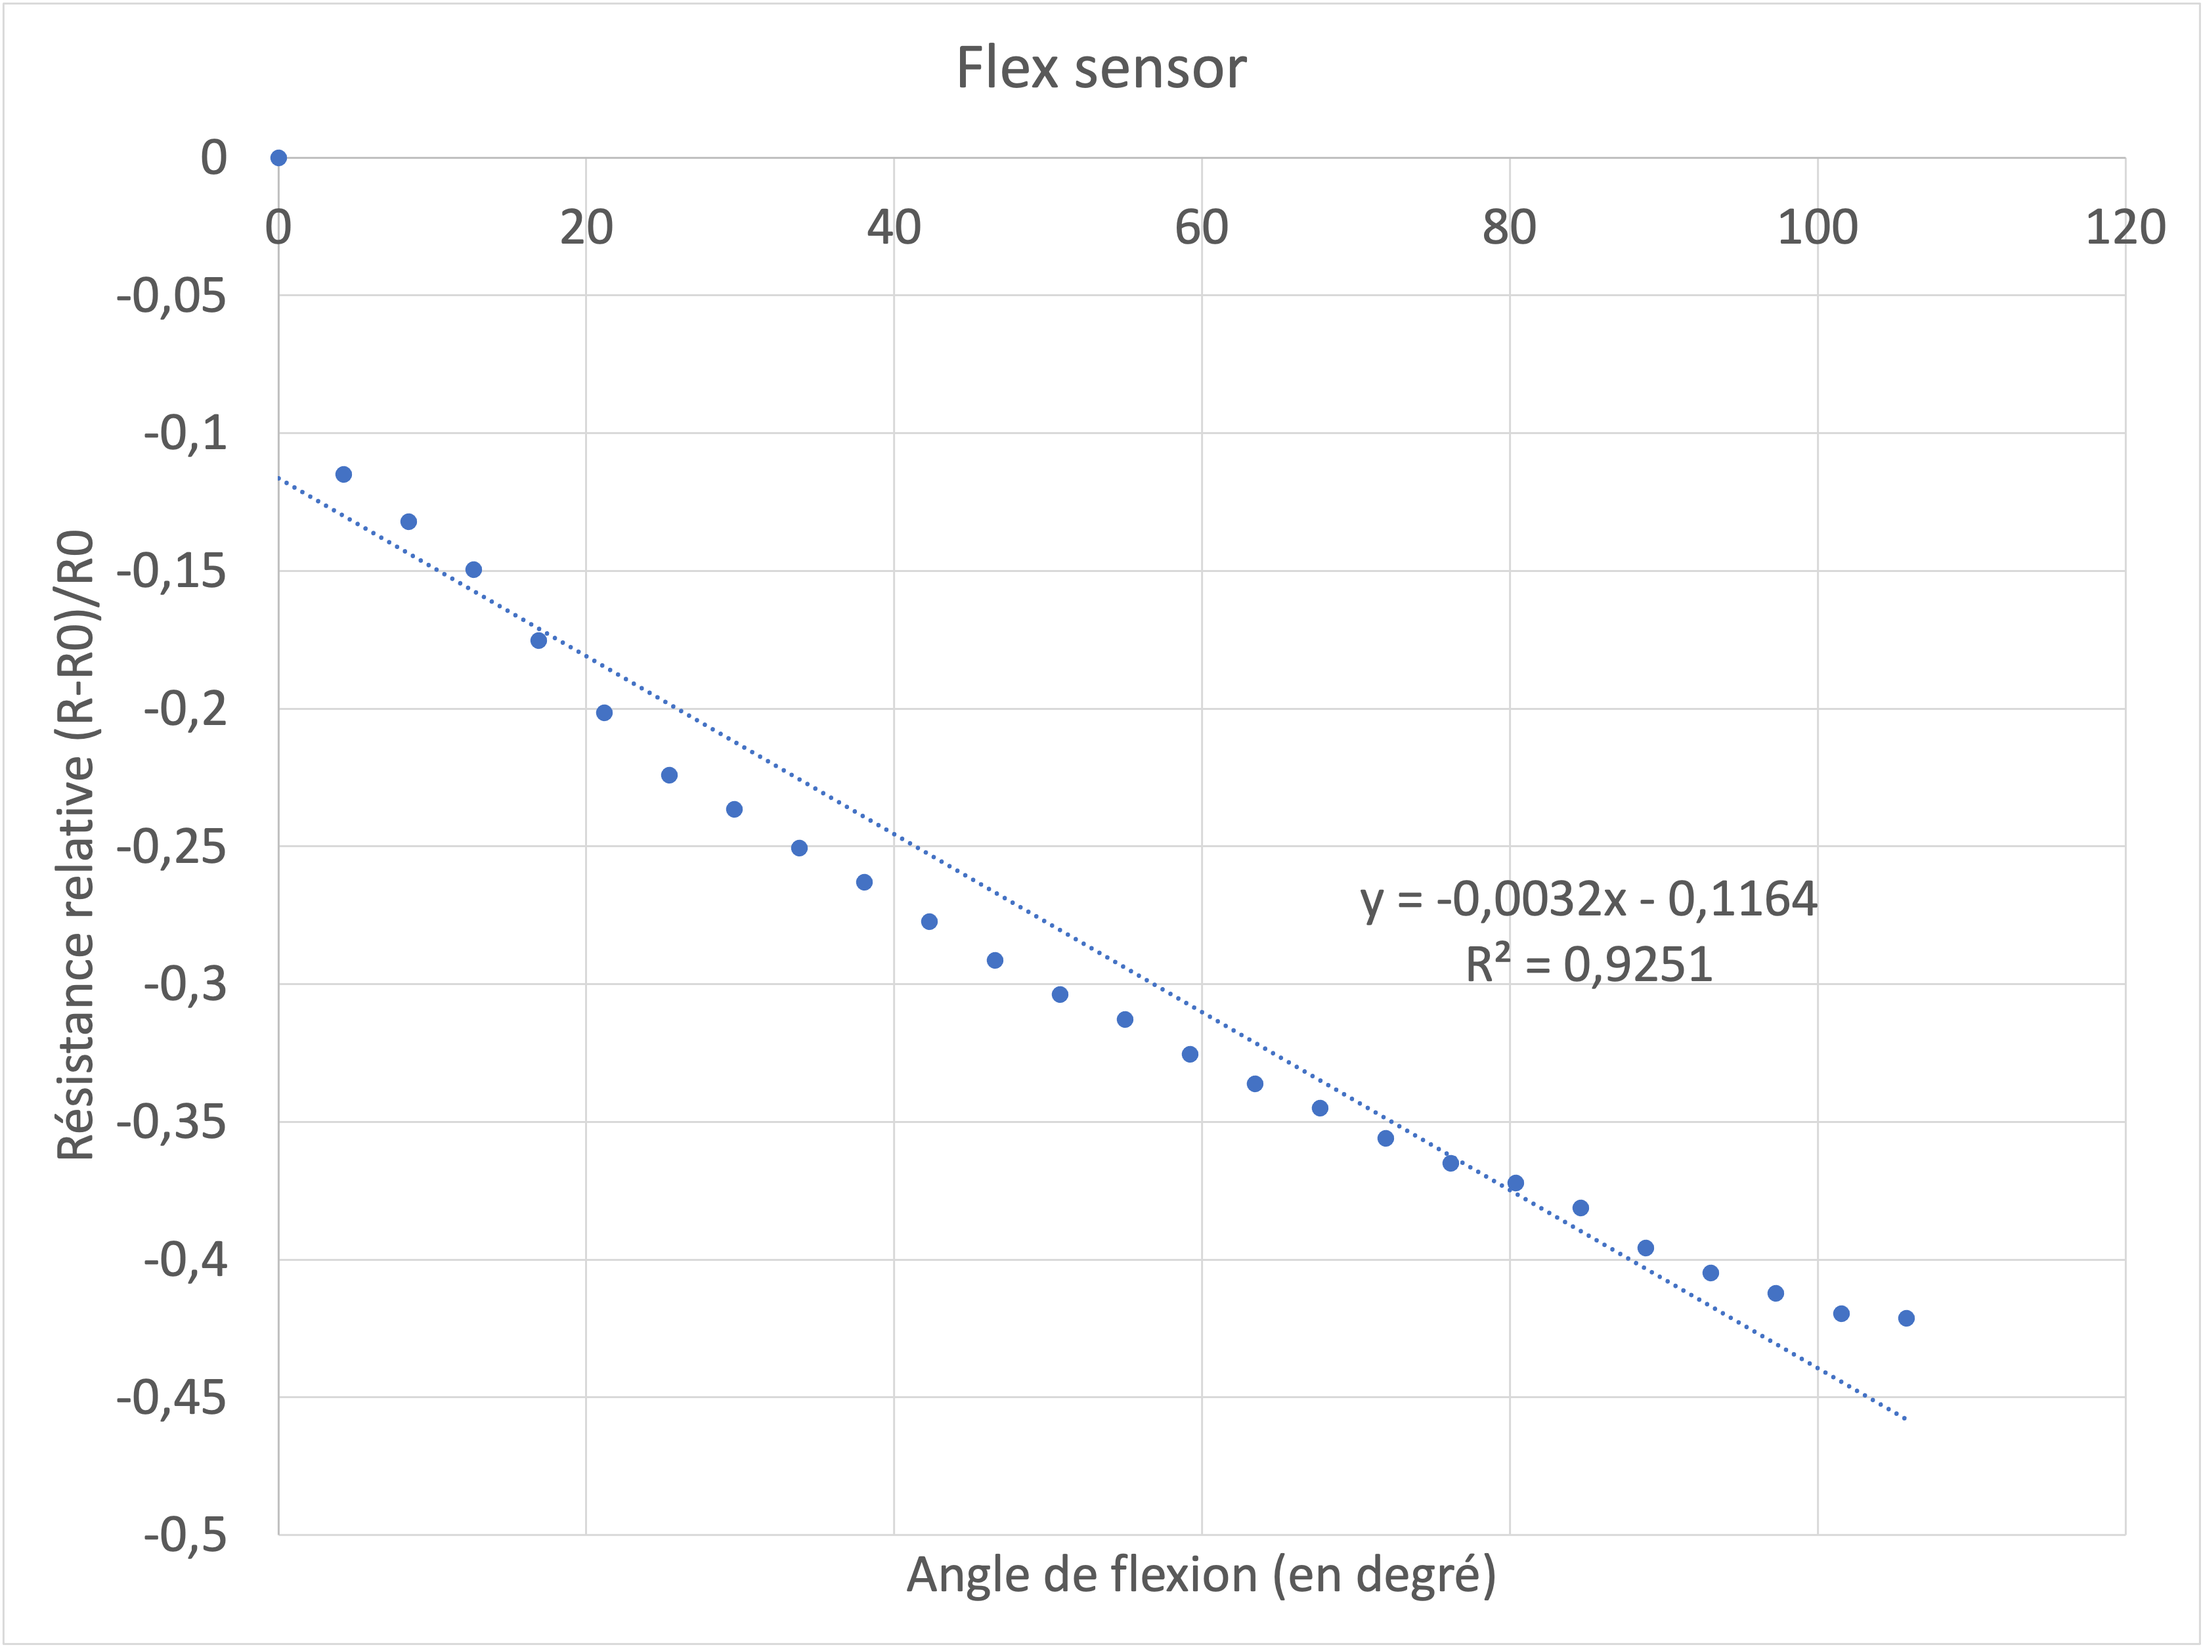
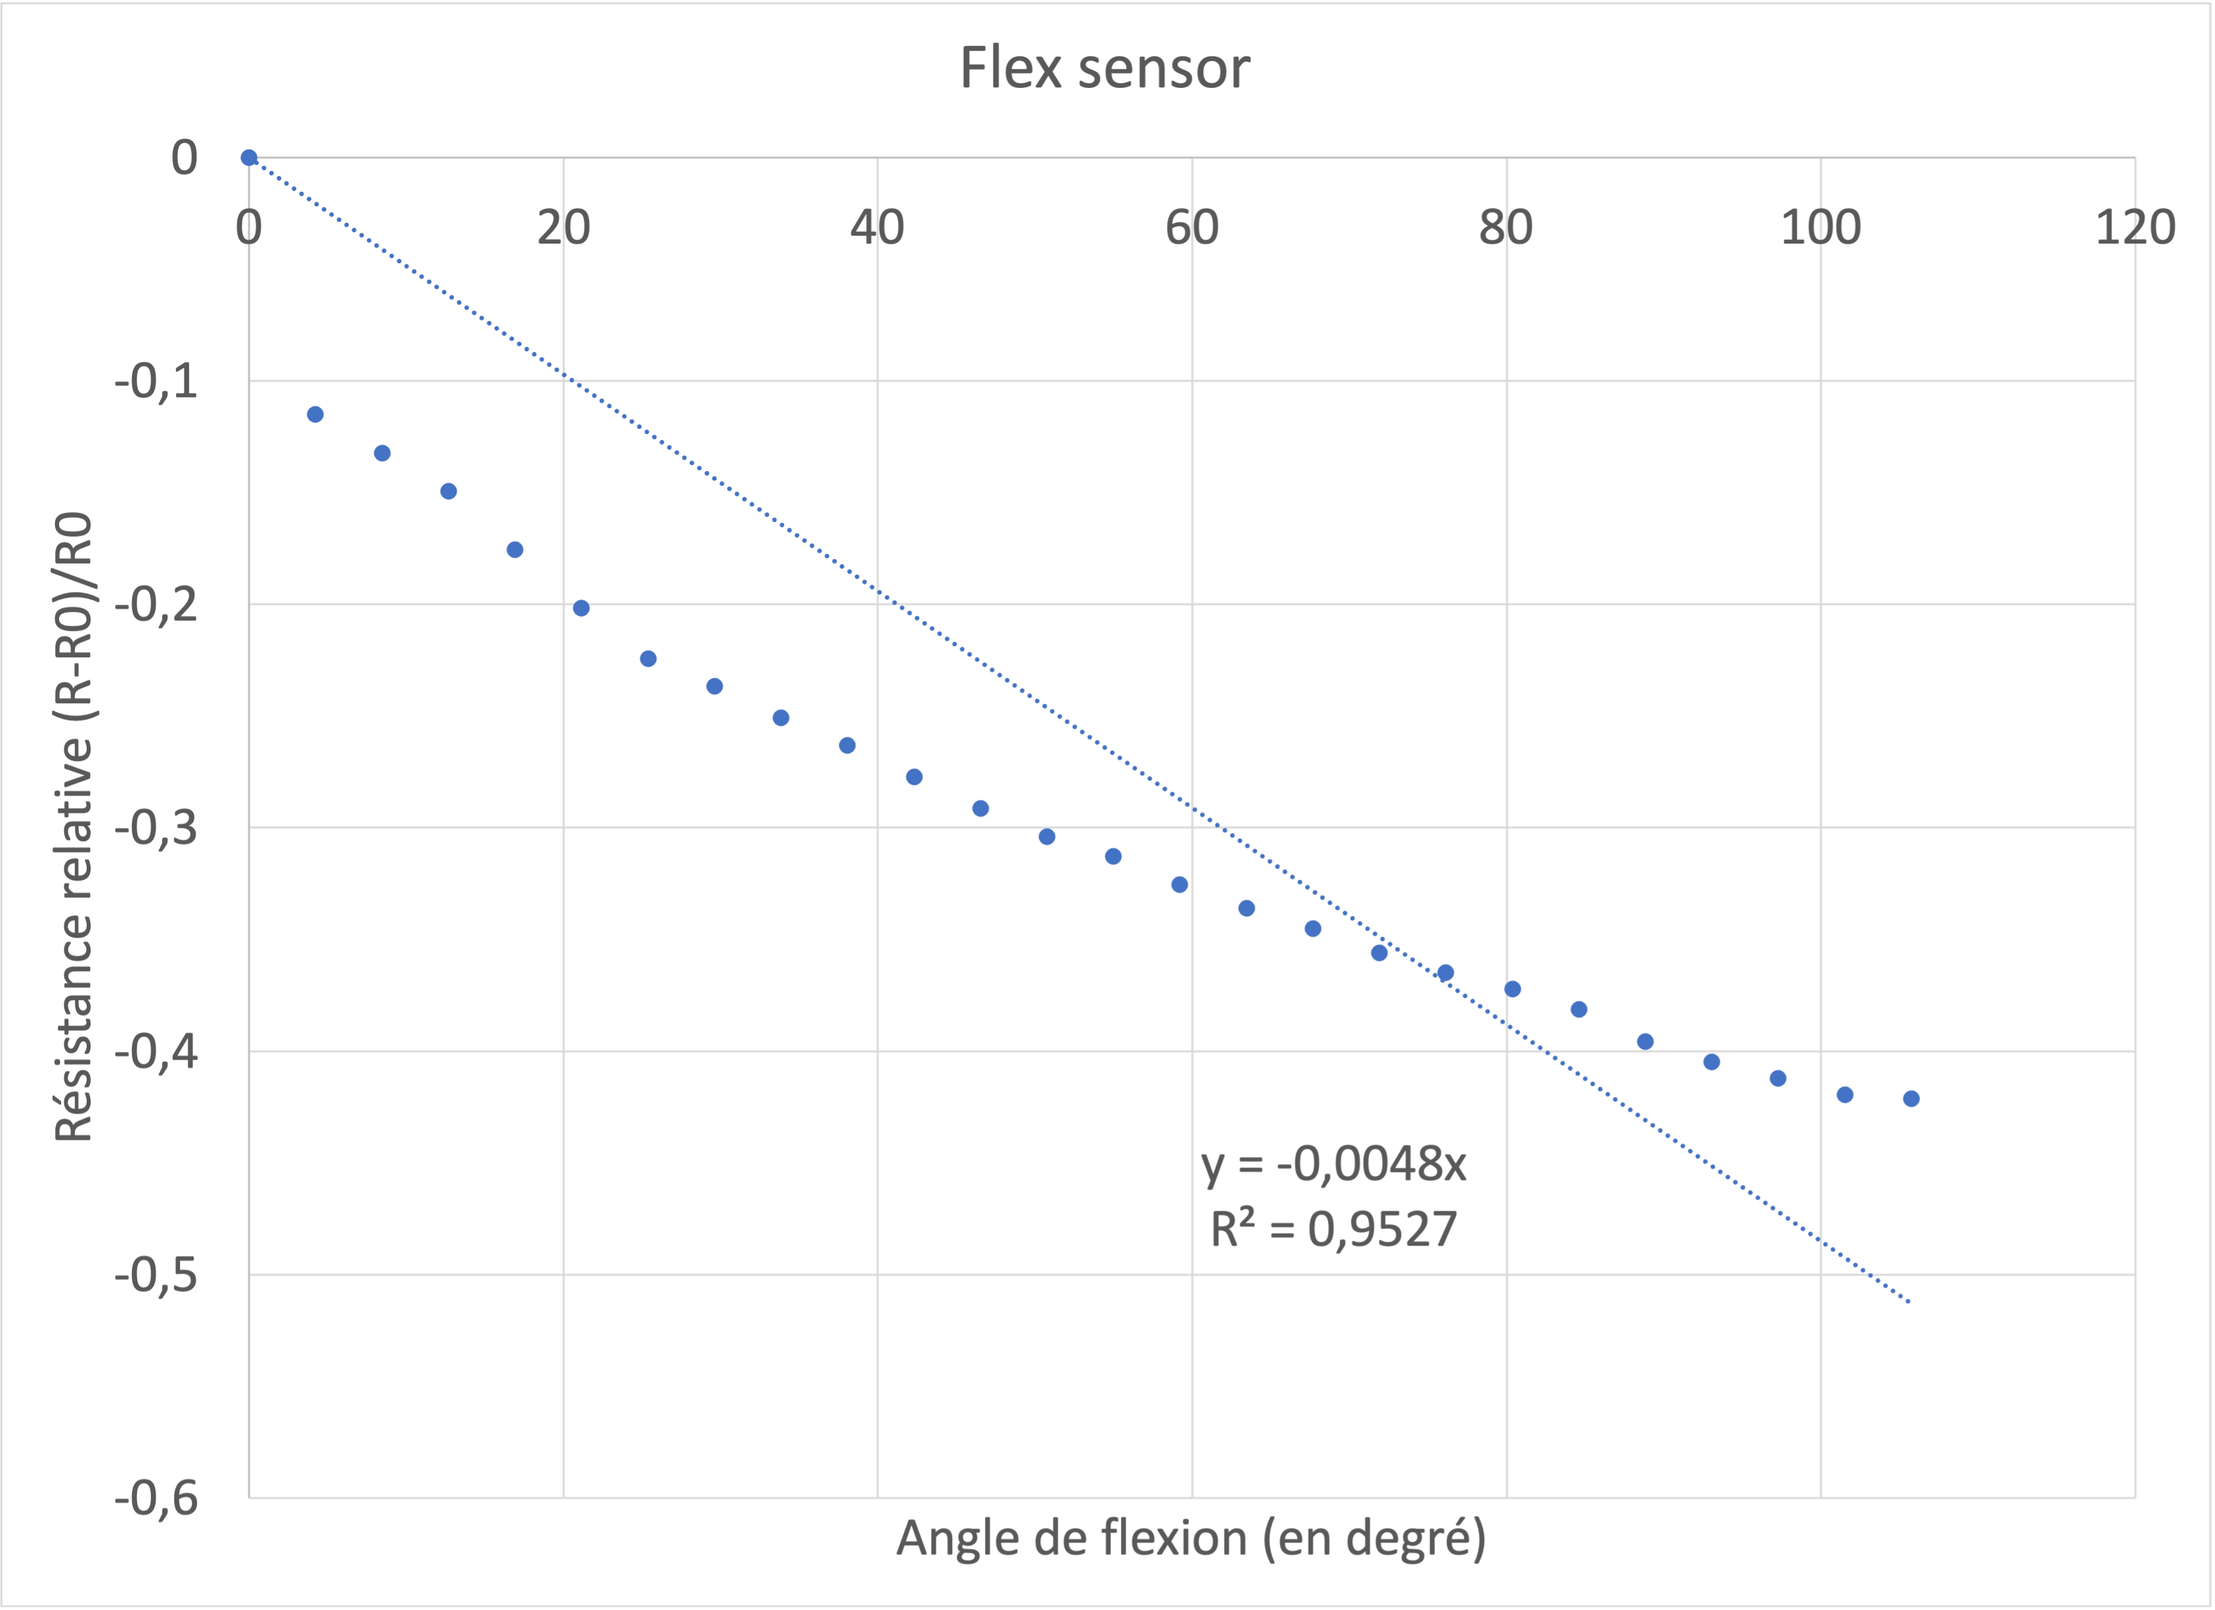
Ajout photos résultats au readme

diff --git a/README.md b/README.md
@@ -368,33 +368,33 @@ ecranOLED.clearDisplay();
 ## 6. Banc de test
 Nous avons élaborer un banc de test à l'aide d'un servomoteur, du scotch double face et des morceaux de carton et plastique d'empballage. Nous avons fixé une partie du capteur sur le stator à l'aide d'un morceau de carton et d'un scotch double face, et l'autre partie du capteur est fixée sur le rotor à l'aide d'un morceau de plastique et de scotch double face.
 
-![Photo Banc de test](https://github.com/lm-hotton/ProjetCapteurGraphite2022-LM-TL/blob/main/Photos_KiCad/Visu3D.png)
+![Photo Banc de test](https://github.com/lm-hotton/ProjetCapteurGraphite2022-LM-TL/blob/main/ResultatsBancTest/BExtension.png)
 
 ### Premier test : DeltaR/R0 HB Compression
 Pour réaliser cette partie, nous avons mesurer 5 cycles de compression que nous avons moyenner pour obtenir la résistance relative en fonction de l'angle appliqué.
-![Datasheet.pdf](https://github.com/lm-hotton/ProjetCapteurGraphite2022-LM-TL/blob/main/Photos_KiCad/Visu3D.png)
+![HBC](https://github.com/lm-hotton/ProjetCapteurGraphite2022-LM-TL/blob/main/ResultatsBancTest/HBCompression.png)
 
-### Second test : DeltaR/R0 HB Deflexion
-Pour réaliser cette partie, nous avons mesurer 5 cycles de déflexion que nous avons moyenner pour obtenir la résistance relative en fonction de l'angle appliqué.
-![Datasheet.pdf](https://github.com/lm-hotton/ProjetCapteurGraphite2022-LM-TL/blob/main/Photos_KiCad/Visu3D.png)
+### Second test : DeltaR/R0 HB Extension
+Pour réaliser cette partie, nous avons mesurer 5 cycles d'extension que nous avons moyenner pour obtenir la résistance relative en fonction de l'angle appliqué.
+![HBE](https://github.com/lm-hotton/ProjetCapteurGraphite2022-LM-TL/blob/main/ResultatsBancTest/HBExtension.png)
 
 ### Troisième test : DeltaR/R0 B Compression
 Pour réaliser cette partie, nous avons mesurer 5 cycles de compression que nous avons moyenner pour obtenir la résistance relative en fonction de l'angle appliqué.
-![Datasheet.pdf](https://github.com/lm-hotton/ProjetCapteurGraphite2022-LM-TL/blob/main/Photos_KiCad/Visu3D.png)
+![BC](https://github.com/lm-hotton/ProjetCapteurGraphite2022-LM-TL/blob/main/ResultatsBancTest/BExtension.png)
 
-### Quatrième test : DeltaR/R0 B Deflexion
-Pour réaliser cette partie, nous avons mesurer 5 cycles de déflexion que nous avons moyenner pour obtenir la résistance relative en fonction de l'angle appliqué.
-![Datasheet.pdf](https://github.com/lm-hotton/ProjetCapteurGraphite2022-LM-TL/blob/main/Photos_KiCad/Visu3D.png)
+### Quatrième test : DeltaR/R0 B Extension
+Pour réaliser cette partie, nous avons mesurer 5 cycles d'extension que nous avons moyenner pour obtenir la résistance relative en fonction de l'angle appliqué.
+![BE](https://github.com/lm-hotton/ProjetCapteurGraphite2022-LM-TL/blob/main/ResultatsBancTest/BExtension.png)
 
 ### Cinquième test : Répetabilité des mesures HB
 Pour réaliser cette partie, nous effectuons plusieurs cycles de compression-déflexion jusqu'à obtenir des valeurs divergentes des premières de plus de 10%.
-![Datasheet.pdf](https://github.com/lm-hotton/ProjetCapteurGraphite2022-LM-TL/blob/main/Photos_KiCad/Visu3D.png)
+![HBR](https://github.com/lm-hotton/ProjetCapteurGraphite2022-LM-TL/blob/main/ResultatsBancTest/répétabilitéHB.png)
 Nous pouvons voir qu'à partir de à peu près 260 cycles, le capteur ne peut plus garantir de bons résultats en deflexion.
 Les mesures en compression restent valables au dela.
 
 ### Sixième test : Répetabilité des mesures B
 Pour réaliser cette partie, nous effectuons plusieurs cycles de compression-déflexion jusqu'à obtenir des valeurs divergentes des premières de plus de 10%.
-![Datasheet.pdf](https://github.com/lm-hotton/ProjetCapteurGraphite2022-LM-TL/blob/main/Photos_KiCad/Visu3D.png)
+![BR](https://github.com/lm-hotton/ProjetCapteurGraphite2022-LM-TL/blob/main/ResultatsBancTest/répétabilitéB.png)
 Nous pouvons voir qu'à partir d'une centaine de cycles, le capteur ne peut plus garantir de bons résultats en deflexion.
 Les mesures en compression restent valables au dela.
 
